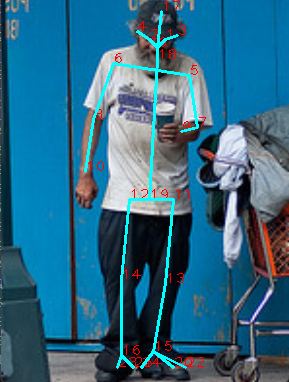
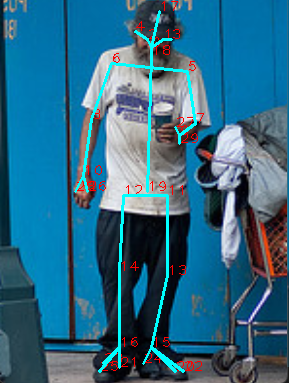
0330

diff --git a/live_demo.py b/live_demo.py
@@ -15,7 +15,7 @@ def get_affine(bbox, image_width, image_height):
     M = cv2.getAffineTransform(p1, p2)
     return M
 
-#HalpeFullbody model config
+#HalpeFullbody(with palm) model config
 ######################################### Live demo config start:
 cap = cv2.VideoCapture(0) #You can change webcam or read prerecorded video in the line.
 cap.set(cv2.CAP_PROP_FRAME_WIDTH, 1280)
@@ -30,7 +30,7 @@ device = "cuda"
 normalize = transforms.Normalize(mean=[0.485, 0.456, 0.406], std=[0.229, 0.224, 0.225])
 T = transforms.Compose([transforms.ToTensor(), normalize])
 
-model = HRNet(base_channels=48, out_channels=26)
+model = HRNet(base_channels=48, out_channels=30)
 model_dict = torch.load("weight/best_acc.pth")
 ######################################### Live demo config end.
 
@@ -43,14 +43,16 @@ faster_rcnn.eval().to(device)
 
 while True:
     ret, frame = cap.read()
+    cv2.normalize(frame, frame, 0, 230, cv2.NORM_MINMAX)
+
     boxes, classes, labels = faster_rcnn_predict(frame, faster_rcnn, device, 0.8)
     frame, p_boxes = person_boxes(boxes, labels, frame)
 
-    results = {'preds' : [], 'maxvals' : []}
+    results = {'preds' : [], 'maxvals' : [], 'bbox' : []}
     for p, p_box in enumerate(p_boxes):
         w = p_box[2] - p_box[0]
         h = p_box[3] - p_box[1]
-        scale = max([w / image_width, h / image_height]) * 1.2
+        scale = max([w / image_width, h / image_height]) * 1.4
         center = (p_box[0] + w / 2, p_box[1] + h / 2)
         clean_bbox_topleft = (center[0] - image_width / 2 * scale, center[1] - image_height / 2 * scale)
         clean_bbox = [clean_bbox_topleft[0], clean_bbox_topleft[1], image_width * scale, image_height * scale]
@@ -61,7 +63,7 @@ while True:
 
         outputs = model(image_transformed.reshape((1, image_transformed.size(0),  image_transformed.size(1), image_transformed.size(2))))
 
-        preds, maxvals = get_max_preds(outputs.detach().cpu().numpy())
+        preds, maxvals = get_avg_preds(outputs.detach().cpu().numpy(), 0.1)
         preds = preds[0]
         maxvals = maxvals[0]
         preds[:, 0] *= image_width / heatmap_width
@@ -71,13 +73,17 @@ while True:
         preds[:, 1] += clean_bbox_topleft[1]
         results['preds'].append(preds)
         results['maxvals'].append(maxvals)
+        results['bbox'].append(clean_bbox)
 
-    for person_num, (pred, maxval) in enumerate(zip(results['preds'], results['maxvals'])):
+    for person_num, (pred, maxval, bbox) in enumerate(zip(results['preds'], results['maxvals'], results['bbox'])):
+        cv2.rectangle(frame, (int(bbox[0]), int(bbox[1])), (int(bbox[0] + bbox[2]), int(bbox[1] + bbox[3])), (255, 0, 0), 2)
         for i, (p, v) in enumerate(zip(pred, maxval)):
-            #if v[0] < 0.3:
-            #    continue
-            cv2.putText(frame, str(i), (int(p[0]), int(p[1])), cv2.FONT_HERSHEY_PLAIN, 1, (0, 0, 255), 1)
-            cv2.circle(frame,(int(p[0]), int(p[1])), 1, (0, 0, 255), 2)
+            if v[0] == 0:
+                cv2.putText(frame, str(i), (int(p[0]), int(p[1])), cv2.FONT_HERSHEY_PLAIN, 1, (0, 0, 255), 1)
+                cv2.circle(frame,(int(p[0]), int(p[1])), 1, (0, 0, 255), 2)
+                continue
+            cv2.putText(frame, str(i), (int(p[0]), int(p[1])), cv2.FONT_HERSHEY_PLAIN, 1, (0, 255, 0), 1)
+            cv2.circle(frame,(int(p[0]), int(p[1])), 1, (0, 255, 0), 2)
         pred_int = pred.astype(int)
         cv2.line(frame, pred_int[0], pred_int[1],   (255, 255, 0), 2)
         cv2.line(frame, pred_int[0], pred_int[2],   (255, 255, 0), 2)
@@ -105,7 +111,15 @@ while True:
         cv2.line(frame, pred_int[16], pred_int[25], (255, 255, 0), 2)
         cv2.line(frame, pred_int[16], pred_int[23], (255, 255, 0), 2)
         cv2.line(frame, pred_int[16], pred_int[21], (255, 255, 0), 2)
+
+        cv2.line(frame, pred_int[10], pred_int[26], (255, 255, 0), 2)
+        cv2.line(frame, pred_int[10], pred_int[28], (255, 255, 0), 2)
+
+        cv2.line(frame, pred_int[9], pred_int[27], (255, 255, 0), 2)
+        cv2.line(frame, pred_int[9], pred_int[29], (255, 255, 0), 2)
+
+
         
-        
-    cv2.imshow("img", frame)
+    
+    cv2.imshow("img", cv2.resize(frame, (1920, 1080)))
     cv2.waitKey(1) 

diff --git a/joint_train.py b/joint_train.py
@@ -122,7 +122,7 @@ def get_output_result(dataset, flipped, outputs, targets, data_idx, image_name, 
 #out_channels = train_dataset.num_joints
 ########################################## Model training config end.
 
-#HalpeFullbody model train config
+#HalpeFullbody(with palm) model train config
 ######################################### Model training config start:
 batch_size = 12
 device = "cuda"
@@ -131,6 +131,9 @@ train_annopath = "data\\halpe_fullbody\\annotations\\halpe_train_v1.json"
 train_imagepath = "data\\halpe_fullbody\\train2015"
 val_annopath = "data\\halpe_fullbody\\annotations\\halpe_val_v1.json"
 val_imagepath = "data\\halpe_fullbody\\val2017"
+
+use_pre_trained_model = False
+pre_trained_model_path = "weight/best_acc.pth"
 
 resume_training = True
 resume_model_path = "weight/latest.pth"
@@ -185,6 +188,9 @@ if __name__ == "__main__":
         model = torch.nn.DataParallel(model, device_ids=(0,)).cuda()
         optimizer.load_state_dict(model_dict['optimizer_state_dict'])
     else:
+        if use_pre_trained_model:
+            model_dict = torch.load(pre_trained_model_path)
+            model.load_state_dict(model_dict['model_state_dict'])
         model = torch.nn.DataParallel(model, device_ids=(0,)).cuda()
 
     lr_scheduler = torch.optim.lr_scheduler.MultiStepLR(optimizer, 
@@ -197,11 +203,11 @@ if __name__ == "__main__":
     for epoch in range(model_dict['epoch'], 5000):
         print("epoch : " + str(epoch))
         print("current learn rate : {}".format(lr_scheduler.get_last_lr()))
-        model_dict['epoch'] = epoch + 1
-
+        
         train_loss, train_acc = train(model, train_dataset, train_loader, criterion, optimizer, epoch, 1000)
         model_dict['model_state_dict'] = model.module.state_dict()
         model_dict['optimizer_state_dict'] = optimizer.state_dict()
+        model_dict['epoch'] = epoch + 1
 
         if train_acc > model_dict['best_train_accuracy']:
             model_dict['best_train_accuracy'] = train_acc

diff --git a/dataset/halpe_fullbody.py b/dataset/halpe_fullbody.py
@@ -8,7 +8,7 @@ import random
 
 class Halpe_Fullbody(Dataset):
     def __init__(self, anno_path, image_root_path,
-                 num_joints = 26,
+                 num_joints = 30,
                  image_height = 384, image_width = 288,
                  heatmap_height = 96, heatmap_width = 72, heatmap_sigma = 2,
                  flip_prob = 0.5,
@@ -28,7 +28,7 @@ class Halpe_Fullbody(Dataset):
         self._COCO = COCO(anno_path)
         self.raw_image_ids = list(self._COCO.imgs.keys())
 
-        self.flip_joints_order = [0, 2, 1, 4, 3, 6, 5, 8, 7, 10, 9, 12, 11, 14, 13, 16, 15, 17, 18, 19, 21, 20, 23, 22, 25, 24]
+        self.flip_joints_order = [0, 2, 1, 4, 3, 6, 5, 8, 7, 10, 9, 12, 11, 14, 13, 16, 15, 17, 18, 19, 21, 20, 23, 22, 25, 24, 27, 26, 29, 28]
 
         self.image_ids = []
         self.image_paths = []
@@ -58,7 +58,9 @@ class Halpe_Fullbody(Dataset):
                 image_affine = self.get_affine(clean_bbox)
 
                 fullbody_keypoints = np.array(person_anno['keypoints'], dtype=np.float).reshape((-1, 3))
-                fullbody_keypoints = fullbody_keypoints[:26]
+                fullbody_keypoints = np.array([*fullbody_keypoints[:26], 
+                                               fullbody_keypoints[115 + 5],fullbody_keypoints[94 + 5], 
+                                               fullbody_keypoints[115 + 17], fullbody_keypoints[94 + 17]]).reshape((-1, 3))
 
                 joints = fullbody_keypoints.copy()
                 joints[:, 2] = np.zeros(self.num_joints, dtype=np.float)

diff --git a/joint_test.py b/joint_test.py
@@ -21,7 +21,7 @@ import cv2
 #model.load_state_dict(model_dict['model_state_dict'])
 ########################################## Model test config end.
 
-#HalpeFullbody model test config
+#HalpeFullbody(with plam) model test config
 ######################################### Model test config start:
 batch_size = 1
 device = "cuda"
@@ -31,7 +31,7 @@ val_annopath = "data\\halpe_fullbody\\annotations\\halpe_val_v1.json"
 val_imagepath = "data\\halpe_fullbody\\val2017"
 val_dataset = Halpe_Fullbody(val_annopath, val_imagepath, transforms=transforms.Compose([transforms.ToTensor(), normalize]), image_height=384, image_width=288, heatmap_height=96, heatmap_width=72)
 
-model = HRNet(base_channels=48, out_channels=26)
+model = HRNet(base_channels=48, out_channels=30)
 model_dict = torch.load("weight/best_acc.pth")
 model.load_state_dict(model_dict['model_state_dict'])
 ######################################### Model test config end.
@@ -88,5 +88,9 @@ with torch.no_grad():
         cv2.line(image, pred_ints[16], pred_ints[25], (255, 255, 0), 2)
         cv2.line(image, pred_ints[16], pred_ints[23], (255, 255, 0), 2)
         cv2.line(image, pred_ints[16], pred_ints[21], (255, 255, 0), 2)
+        cv2.line(image, pred_ints[10], pred_ints[26], (255, 255, 0), 2)
+        cv2.line(image, pred_ints[10], pred_ints[28], (255, 255, 0), 2)
+        cv2.line(image, pred_ints[9],  pred_ints[27], (255, 255, 0), 2)
+        cv2.line(image, pred_ints[9],  pred_ints[29], (255, 255, 0), 2)
         cv2.imshow("img", image)
         cv2.waitKey(0) 

diff --git a/util/joint_util.py b/util/joint_util.py
@@ -30,6 +30,37 @@ def get_max_preds(batch_heatmaps):
     preds *= pred_mask
     return preds, maxvals
 
+def get_avg_preds(batch_heatmaps, threshold = 0.3):
+    preds = []
+    maxvals = []
+    for heatmaps in batch_heatmaps:
+        heatmap_preds = []
+        heatmap_maxvals = []
+        for heatmap in heatmaps:
+            valid_elements = np.array(np.where(heatmap > threshold)).T
+            if len(valid_elements) == 0:
+                heatmap_preds.append([0.0, 0.0])
+                heatmap_maxvals.append([0])
+                continue
+
+            weights = []
+            for valid_element in valid_elements:
+                weights.append(heatmap[valid_element[0]][valid_element[1]])
+            heatmap_maxval = max(weights)
+            weights = np.array(weights) / sum(weights)
+
+            pred_x = 0
+            pred_y = 0
+            for valid_element, weight in zip(valid_elements, weights):
+                pred_x += weight * valid_element[1]
+                pred_y += weight * valid_element[0]
+
+            heatmap_preds.append([pred_x, pred_y])
+            heatmap_maxvals.append([heatmap_maxval])
+        preds.append(heatmap_preds)
+        maxvals.append(heatmap_maxvals)
+    return np.array(preds), np.array(maxvals)
+
 def calc_dists(preds, target, normalize):
     preds = preds.astype(np.float32)
     target = target.astype(np.float32)

diff --git a/README.md b/README.md
@@ -1,4 +1,11 @@
 # Minimalistic-HRNet
+
+## Update
+2024/03/30 : Add new way to predict keypoints from heatmaps (average method)
+
+2024/03/29 : [Halpe Full-Body](https://github.com/Fang-Haoshu/Halpe-FullBody?tab=readme-ov-file "link") pre-trained weight now has palm keypoints.
+
+2024/03/24 : [Halpe Full-Body](https://github.com/Fang-Haoshu/Halpe-FullBody?tab=readme-ov-file "link") dataset is now supported.
  
 ## Introduction
 This repo is a lightweight pytorch implementation of the paper : [High-Resolution Representations for Labeling Pixels and Regions](https://arxiv.org/abs/1904.04514 "link")
@@ -61,9 +68,9 @@ Download :
 
 
 
-### Halpe Full-Body (Body keypoints with feet keypoints)
+### Halpe Full-Body (Body keypoints with feet keypoints and palm keypoints)
 
-Model parameter : base_channels=48, out_channels=26
+Model parameter : base_channels=48, out_channels=30
 
 Download : 
  [Google Drive](https://drive.google.com/drive/folders/1dEMo5L3m4mX9iC8WcxgTqr7WZK7TPuDc?usp=drive_link)
@@ -125,7 +132,7 @@ ${Minimalistic-HRNet root}
 Inside **joint_train.py** in root folder, has a config section like this : 
 
 ```python
-#HalpeFullbody model train config
+#HalpeFullbody(with palm) model train config
 ######################################### Model training config start:
 batch_size = 12
 device = "cuda"
@@ -134,6 +141,9 @@ train_annopath = "data\\halpe_fullbody\\annotations\\halpe_train_v1.json"
 train_imagepath = "data\\halpe_fullbody\\train2015"
 val_annopath = "data\\halpe_fullbody\\annotations\\halpe_val_v1.json"
 val_imagepath = "data\\halpe_fullbody\\val2017"
+
+use_pre_trained_model = False
+pre_trained_model_path = "weight/best_acc.pth"
 
 resume_training = True
 resume_model_path = "weight/latest.pth"
@@ -176,7 +186,7 @@ python joint_test.py
 **joint_test.py** also has a config section, you can change some test setting here.
 
 ```python
-#HalpeFullbody model test config
+#HalpeFullbody(with plam) model test config
 ######################################### Model test config start:
 batch_size = 1
 device = "cuda"
@@ -186,7 +196,7 @@ val_annopath = "data\\halpe_fullbody\\annotations\\halpe_val_v1.json"
 val_imagepath = "data\\halpe_fullbody\\val2017"
 val_dataset = Halpe_Fullbody(val_annopath, val_imagepath, transforms=transforms.Compose([transforms.ToTensor(), normalize]), image_height=384, image_width=288, heatmap_height=96, heatmap_width=72)
 
-model = HRNet(base_channels=48, out_channels=26)
+model = HRNet(base_channels=48, out_channels=30)
 model_dict = torch.load("weight/best_acc.pth")
 model.load_state_dict(model_dict['model_state_dict'])
 ######################################### Model test config end.
@@ -212,7 +222,7 @@ python live_demo.py
 Config section in **live_demo.py** :
 
 ```python
-#HalpeFullbody model config
+#HalpeFullbody(with palm) model config
 ######################################### Live demo config start:
 cap = cv2.VideoCapture(0) #You can change webcam or read prerecorded video in the line.
 cap.set(cv2.CAP_PROP_FRAME_WIDTH, 1280)
@@ -227,13 +237,13 @@ device = "cuda"
 normalize = transforms.Normalize(mean=[0.485, 0.456, 0.406], std=[0.229, 0.224, 0.225])
 T = transforms.Compose([transforms.ToTensor(), normalize])
 
-model = HRNet(base_channels=48, out_channels=26)
+model = HRNet(base_channels=48, out_channels=30)
 model_dict = torch.load("weight/best_acc.pth")
 ######################################### Live demo config end.
 ```
 
  [Demo video link (COCO-WholeBody)](https://www.youtube.com/watch?v=J8gzc41t1eg&ab_channel=%E7%A8%8B "link")
 
-  [Demo video link (Halpe-Fullbody)](https://www.youtube.com/watch?v=2UbfIj7v720&ab_channel=%E7%A8%8B "link")
+  [Demo video link (Halpe-Fullbody)](https://youtu.be/ugm7kldJTds "link")
 
 
